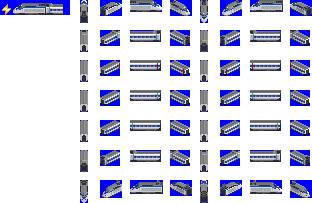
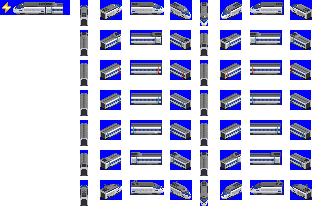
Apply #427: Change graphic of KTX-1

diff --git a/docs/changelog.md b/docs/changelog.md
@@ -11,6 +11,7 @@
  * 추가: 벌크시멘트 화차 [#372]
  * 추가: 카페 객차 무궁화호 구 도색 (도색 F) [#367]
  * 변경: ITX-새마을 그래픽 변경 및 32bpp 지원 [#428]
+ * 변경: KTX-1 그래픽 변경 [#427]
  * 변경: 도시철도 차량의 무게를 실제 스펙의 평균값으로 변경 [#80]
  * 변경: 컨테이너 평판화차, 평판화차의 그래픽과 길이 변경 [#403, #157]
  * 변경: 유조차 그래픽 변경 [#372]
